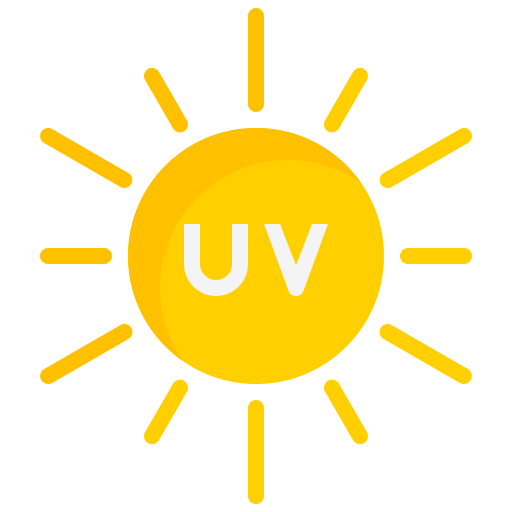
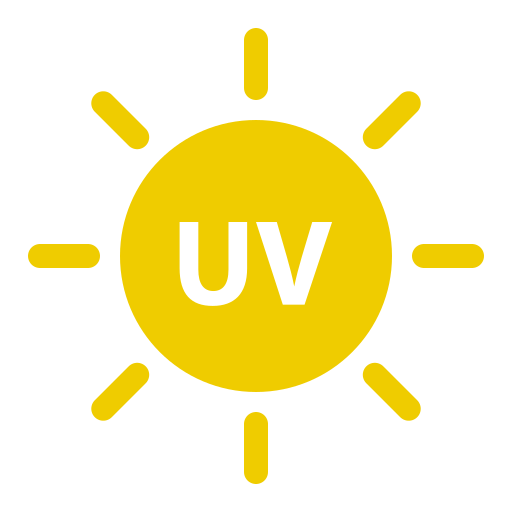
feat: Add new weather conditions
Add new icons for weather.
Night forecast will now show night icons.
Add sunrise and sunset time.

diff --git a/script.js b/script.js
@@ -13,13 +13,13 @@ searchBar.addEventListener('keydown', (event) => {
             generateDOM(processedWeatherData);
             populateStaticData(processedWeatherData);
         });
+        searchBar.value = '';
     }
 });
 
 async function getData(cityName) {
     const response = await fetch('https://api.weatherapi.com/v1/forecast.json?key=cd0065695f244f8783a190858232909&q=' + cityName + '&days=3', {mode: 'cors'});
     const weatherData = await response.json();
-    //console.log(weatherData);
     return processData(weatherData);
 }
 
@@ -37,7 +37,9 @@ function processData(data) {
         data.current.feelslike_c,
         data.current.wind_kph,
         data.current.humidity,
-        data.current.uv
+        data.current.uv,
+        data.forecast.forecastday[0].astro.sunrise,
+        data.forecast.forecastday[0].astro.sunset
     );
 
     // Today forecast
@@ -78,7 +80,7 @@ function processData(data) {
 }
 
 class City {
-    constructor(city, country, time, isDay, code, condition, temperature, feelsLike, wind, humidity, uv) {
+    constructor(city, country, time, isDay, code, condition, temperature, feelsLike, wind, humidity, uv, sunrise, sunset) {
         this.city = city;
         this.country = country;
         this.time = time;
@@ -90,13 +92,16 @@ class City {
         this.wind = wind;
         this.humidity = humidity;
         this.uv = uv;
+        this.sunrise = sunrise;
+        this.sunset = sunset;
     }
 }
 
 class Hour {
-    constructor(code, time, temp) {
-        this.code = code;
+    constructor(time, code, isDay, temp) {
         this.time = time;
+        this.code = code;
+        this.isDay = isDay;
         this.temp = temp;
     }
 }
@@ -119,8 +124,9 @@ function getHours(forecastHours, currentTime, day) {
     hoursToIterate.forEach((hour, index) => {
         if (index % 3 === 0 || index === 0) {
             const newHour = new Hour(
-                hour.condition.code,
                 hour.time,
+                hour.condition.code,
+                hour.is_day,
                 hour.temp_c
             );
             if (forecastHours.length < 6) {
@@ -140,12 +146,19 @@ function populateStaticData(data) {
     const temperature = document.querySelector(".temperature");
     const feelsLike = document.querySelector(".feelsLike");
     const image = document.getElementById("currentWeather");
+    const sunrise = document.querySelector(".sunrise");
+    const sunset = document.querySelector(".sunset");
 
     city.textContent = data.currentData.city;
     country.textContent = data.currentData.country;
     time.textContent = data.currentData.time;
     temperature.textContent = data.currentData.temperature + "°";
     feelsLike.textContent = "Feels like " + data.currentData.feelsLike + "°";
+
+    const date = new Date();
+
+    sunrise.textContent = data.currentData.sunrise;
+    sunset.textContent = data.currentData.sunset;
 
 
     // Populate today's conditions
@@ -158,7 +171,7 @@ function populateStaticData(data) {
     uv.textContent = data.currentData.uv;
 
 
-    checkWeather(data.currentData, image);
+    checkWeather(data.currentData, image, data.currentData.isDay);
 }
 
 function generateDOM(data) {
@@ -185,7 +198,7 @@ function generateTodayForecast(data) {
         const minMaxTemp = document.createElement("h3");
         
         dayName.textContent = hour.time.split(' ')[1];
-        checkWeather(hour, image);
+        checkWeather(hour, image, hour.isDay);
         minMaxTemp.textContent = hour.temp;
 
         divDay.appendChild(dayName);
@@ -201,16 +214,25 @@ function generateWeekForecast(data) {
     const section = document.querySelector(".day-forecast");
     section.innerHTML = '';
 
-    data.forecastDays.forEach(day => {
+    const weekday = ["Sunday","Monday","Tuesday","Wednesday","Thursday","Friday","Saturday"];
+
+    data.forecastDays.forEach((day, index) => {
 
         const divDay = document.createElement("div");
         divDay.classList.add("day");
+
+        const d = new Date(day.date);
+        let nameOfDay = d.getDay();
 
         const dayName = document.createElement("h3");
         const image = document.createElement("img");
         const minMaxTemp = document.createElement("h3");
         
-        dayName.textContent = day.date;
+        if (index === 0) {
+            dayName.textContent = "Today";
+        } else {
+            dayName.textContent = weekday[nameOfDay];
+        }
         checkWeather(day, image);
         minMaxTemp.textContent = day.maxtemp_c + "°/" + day.mintemp_c + "°";
 
@@ -222,20 +244,41 @@ function generateWeekForecast(data) {
     });
 }
 
-function checkWeather(day, image) {
+function checkWeather(day, image, dayNight) {
+
+    if (dayNight === 0) {
+        dayNight = "night";
+    } else {
+        dayNight = "day";
+    }
 
     const background = document.querySelector("body");
     
-    if (day.isDay === 0){
-        image.src = "images/night-clear.png";
-    } else if (day.code === 1000) {
-        image.src = "images/sunny.png";
-    } else if (day.code === 1003) {
-        image.src = "images/partially-cloudy.png";
-    } else if (day.code >= 1006 && day.code <= 1030) {
-        image.src = "images/cloudy.png";
-    } else if (day.code >= 1063 && day.code <= 1282) {
-        image.src = "images/rainy.png"
+    if (day.code === 1000) {
+        image.src = "images/" + dayNight + "-clear.png";
+    } else if (day.code >= 1003 && day.code <= 1009) {
+        image.src = "images/" + dayNight + "-cloudy.png";
+    } else if (day.code === 1030 || day.code === 1135 || day.code === 1147) {
+        image.src = "images/" + dayNight + "-mist.png";
+    } else if (day.code === 1063 
+            || day.code === 1072 
+            || (day.code >= 1150 && day.code <= 1183)
+            || day.code === 1198
+            || day.code === 1240) {
+        image.src = "images/" + dayNight + "-light-rain.png";
+    } else if ((day.code >= 1186 && day.code <= 1195)
+            || day.code === 1201
+            || day.code === 1207
+            || (day.code >= 1243 && day.code <= 1246)) {
+        image.src = "images/" + dayNight + "-rain.png";
+    } else if (day.code >= 1066 && day.code <= 1069
+            || day.code >= 1114 && day.code <= 1117
+            || day.code >= 1204 && day.code <= 1237
+            || day.code >= 1249 && day.code <= 1264) {
+        image.src = "images/" + dayNight + "-snow.png"
+    } else if (day.code >= 1273 && day.code <= 1282
+            || day.code === 1087) {
+        image.src = "images/" + dayNight + "-storm.png"
     }
 
     if (day.isDay === 0 || day.code >= 1006 && day.code <= 1282) {

diff --git a/index.html b/index.html
@@ -7,8 +7,8 @@
     <link rel="stylesheet" href="style.css">
     <link rel="icon" type="image/x-icon" href="images/favicon.ico">
     <link rel="preconnect" href="https://fonts.googleapis.com">
-<link rel="preconnect" href="https://fonts.gstatic.com" crossorigin>
-<link href="https://fonts.googleapis.com/css2?family=Carter+One&family=Ubuntu+Mono&display=swap" rel="stylesheet">
+    <link rel="preconnect" href="https://fonts.gstatic.com" crossorigin>
+    <link href="https://fonts.googleapis.com/css2?family=Carter+One&family=Ubuntu+Mono&display=swap" rel="stylesheet">
     <script src="script.js" defer></script>
     <script src="https://kit.fontawesome.com/1dd9609656.js" crossorigin="anonymous"></script>
 </head>
@@ -18,10 +18,19 @@
 
         <div class="header">
             <h1>MyWeather</h1>
-            <img class="bigImage" src="images/weatherAPI.png" alt="weatherAPI">
+            <img class="bigImage" id="weatherapi" src="images/weatherAPI.png" alt="weatherAPI">
         </div>
 
-        <div class="sidebar"></div>
+        <div class="sidebar">
+            <div>
+                <img src="images/sunrise.png">
+                <h3 class="sunrise">06:00</h3>
+            </div>
+            <div>
+                <img src="images/sunset.png">
+                <h3 class="sunset">06:00</h3>
+            </div>
+        </div>
 
         <div class="main-display">
             <div class="content">
@@ -37,7 +46,7 @@
                 <p class="feelsLike">Feels like 27°</p>
             </div>
             <div class="weather-icon">
-                <img class="bigImage" id="currentWeather" src="images/partially-cloudy.png" alt="partially-cloudy">
+                <img class="bigImage" id="currentWeather" src="images/day-cloudy.png" alt="day-cloudy">
             </div>
         </div>
 
@@ -47,32 +56,32 @@
 
                 <div class="hour">
                     <h3>12:00</h3>
-                    <img src="images/partially-cloudy.png">
+                    <img src="images/day-cloudy.png">
                     <h3>28°</h3>
                 </div>
                 <div class="hour">
                     <h3>15:00</h3>
-                    <img src="images/partially-cloudy.png">
+                    <img src="images/day-cloudy.png">
                     <h3>28°</h3>
                 </div>
                 <div class="hour">
                     <h3>18:00</h3>
-                    <img src="images/partially-cloudy.png">
+                    <img src="images/day-cloudy.png">
                     <h3>28°</h3>
                 </div>
                 <div class="hour">
                     <h3>21:00</h3>
-                    <img src="images/partially-cloudy.png">
+                    <img src="images/day-cloudy.png">
                     <h3>28°</h3>
                 </div>
                 <div class="hour">
                     <h3>00:00</h3>
-                    <img src="images/partially-cloudy.png">
+                    <img src="images/day-cloudy.png">
                     <h3>28°</h3>
                 </div>
                 <div class="hour">
                     <h3>03:00</h3>
-                    <img src="images/partially-cloudy.png">
+                    <img src="images/day-cloudy.png">
                     <h3>28°</h3>
                 </div>
 
@@ -105,38 +114,41 @@
 
                 <div class="day">
                     <h3>Today</h3>
-                    <img src="images/partially-cloudy.png">
+                    <img src="images/day-cloudy.png">
                     <h3>28°/21°</h3>
                 </div>
                 <div class="day">
                     <h3>Tue</h3>
-                    <img src="images/partially-cloudy.png">
+                    <img src="images/day-cloudy.png">
                     <h3>28°/21°</h3>
                 </div>
                 <div class="day">
                     <h3>Wed</h3>
-                    <img src="images/partially-cloudy.png">
+                    <img src="images/day-cloudy.png">
                     <h3>28°/21°</h3>
                 </div>
                 <div class="day">
                     <h3>Thu</h3>
-                    <img src="images/partially-cloudy.png">
+                    <img src="images/day-cloudy.png">
                     <h3>28°/21°</h3>
                 </div>
                 <div class="day">
                     <h3>Fri</h3>
-                    <img src="images/partially-cloudy.png">
+                    <img src="images/day-cloudy.png">
                     <h3>28°/21°</h3>
                 </div>
                 <div class="day">
                     <h3>Sun</h3>
-                    <img src="images/partially-cloudy.png">
+                    <img src="images/day-cloudy.png">
                     <h3>28°/21°</h3>
                 </div>
                 <div class="day">
                     <h3>Sat</h3>
-                    <img src="images/partially-cloudy.png">
+                    <img src="images/day-cloudy.png">
                     <h3>28°/21°</h3>
+                </div>
+                <div class="day">
+                    <h3><img src="images/error.png">Something is wrong</h3>
                 </div>
 
             </div>

diff --git a/style.css b/style.css
@@ -47,6 +47,15 @@ body {
     align-items: center;
 }
 
+.sidebar {
+    display: flex;
+    flex-direction: column;
+    justify-content: space-evenly;
+    align-items: center;
+    text-align: center;
+    padding: 20px;
+}
+
 .container > .main-display {
     background-color: transparent;
     display: flex;
@@ -179,15 +188,17 @@ img {
     .container {
         height: auto;
         display: grid;
-        grid-template: 100px repeat(auto-fit, minmax(50px, 1fr)) / 1fr;
+        grid-template: 50px repeat(auto-fit, minmax(50px, 1fr)) / 1fr;
         gap: 0;
         grid-row-gap: 20px;
         box-sizing: content-box;
     }
     .header {
+        height: auto;
         grid-area: 1 / 1 / 2 / 2;
     }
     .sidebar {
+        flex-direction: row;
         grid-area: 2 / 1 / 3 / 2;
     }
     .main-display {
@@ -206,10 +217,16 @@ img {
         grid-area: 6 / 1 / 7 / 2;
     }
     h1 {
-        font-size: 2em;
+        font-size: 1.5em;
+    }
+    h3 {
+        font-size: 0.6em;
     }
     img {
-        max-height: 40px;
-        max-width: 40px;
+        max-height: 30px;
+        max-width: 30px;
+    }
+    #weatherapi {
+        max-height: 50px;
     }
 }
